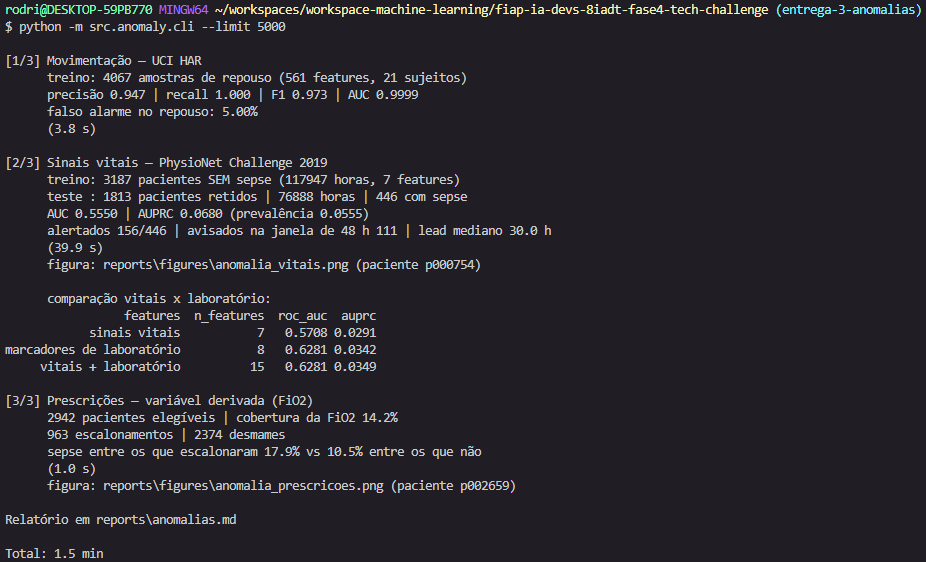
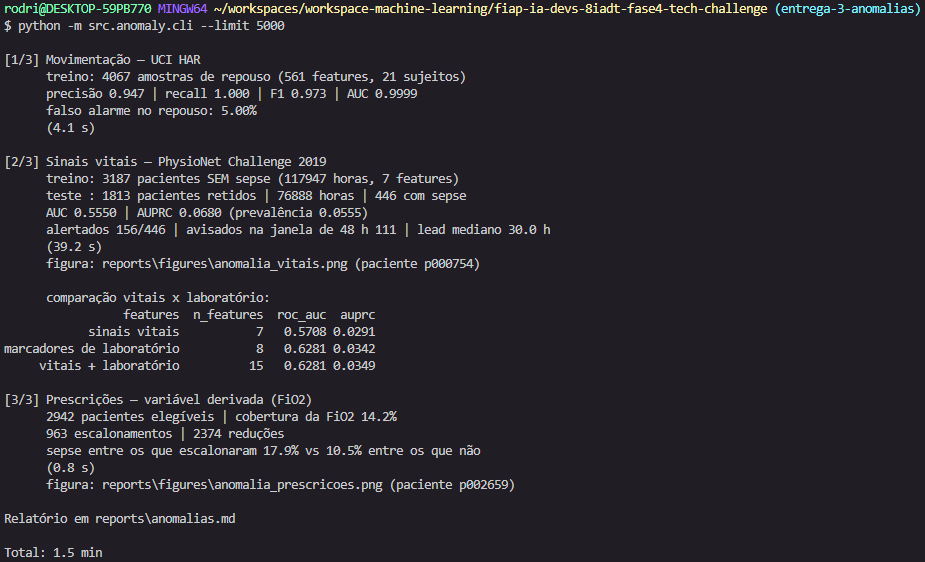
docs: atualiza os screenshots afetados pela renomeação e os tempos da Figura 12
As capturas do p000188 e da avaliação mostravam "desmame"/"desmames", termo trocado
no commit anterior. Recapturadas.

A legenda da Figura 12 citava os tempos por etapa da execução anterior (3,8 s / 39,9 s /
1,0 s); a nova marca 4,1 s / 39,2 s / 0,8 s. O total permanece 1,5 min. Acrescentada a
explicação da diferença entre a soma das etapas e o total, que é a leitura dos 5.000
arquivos .psv.

diff --git a/reports/TECHNICAL_REPORT_FASE4.md b/reports/TECHNICAL_REPORT_FASE4.md
@@ -1159,10 +1159,11 @@ métricas que orienta o peso de cada modalidade:
 ![Avaliação completa das três subtarefas](figures/screenshots/cli_anomaly_avaliacao.png)
 
 > **Figura 12.** Avaliação sobre 5.000 pacientes, em 1,5 min. As três subtarefas aparecem
-> lado a lado com os respectivos tempos: movimentação (3,8 s), sinais vitais (39,9 s) e
-> prescrições (1,0 s). A saída explicita a separação treino/teste dos vitais — 3.187
-> pacientes sem sepse no treino contra 1.813 retidos — e inclui a comparação entre vitais e
-> marcadores de laboratório discutida em 5.4.
+> lado a lado com os respectivos tempos: movimentação (4,1 s), sinais vitais (39,2 s) e
+> prescrições (0,8 s) — o restante do tempo é a leitura dos 5.000 arquivos `.psv`. A saída
+> explicita a separação treino/teste dos vitais (3.187 pacientes sem sepse no treino contra
+> 1.813 retidos) e inclui a comparação entre vitais e marcadores de laboratório discutida
+> em 5.4.
 
 Os resultados sugerem **pesos distintos por modalidade**, e não um limiar comum:
 
